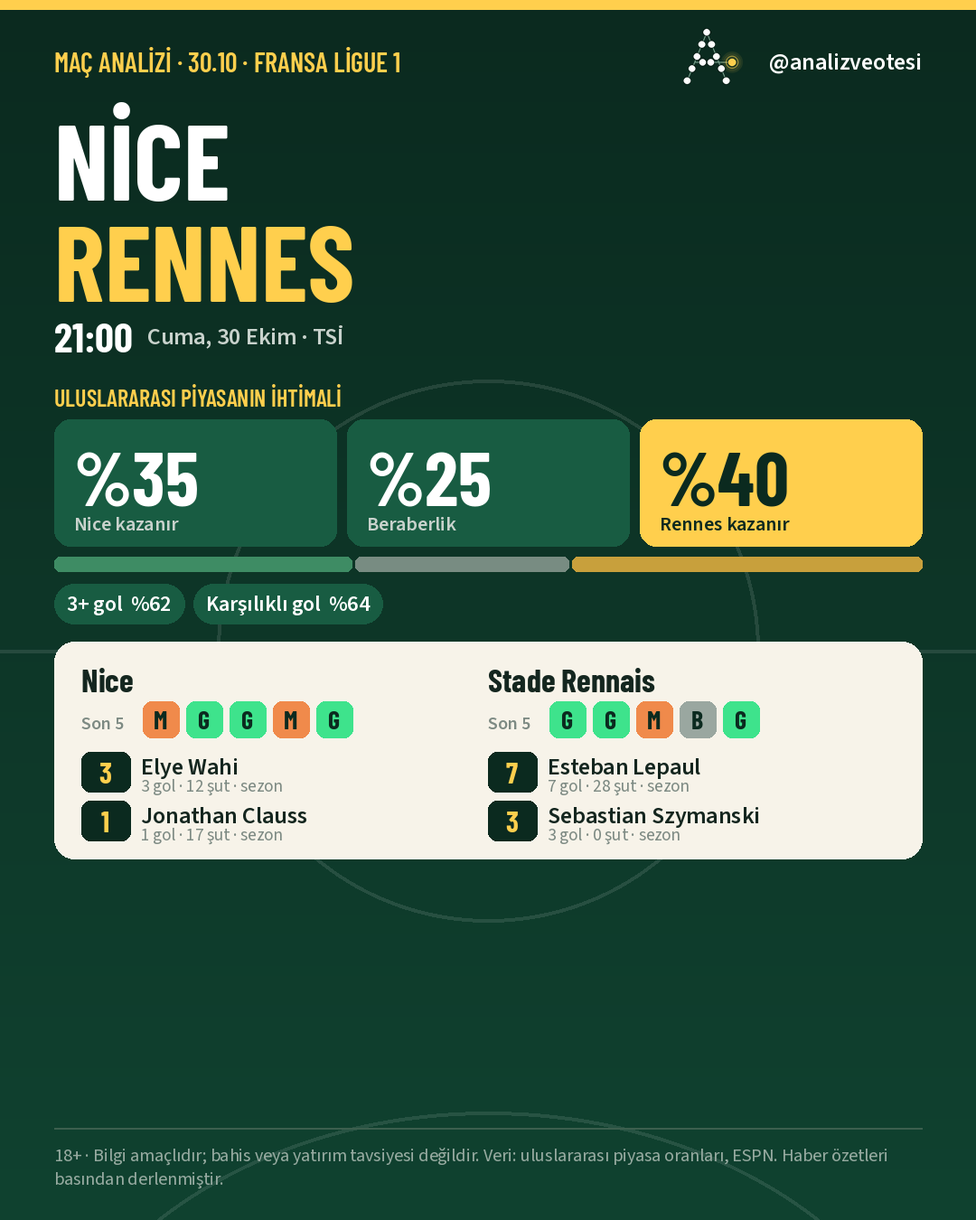
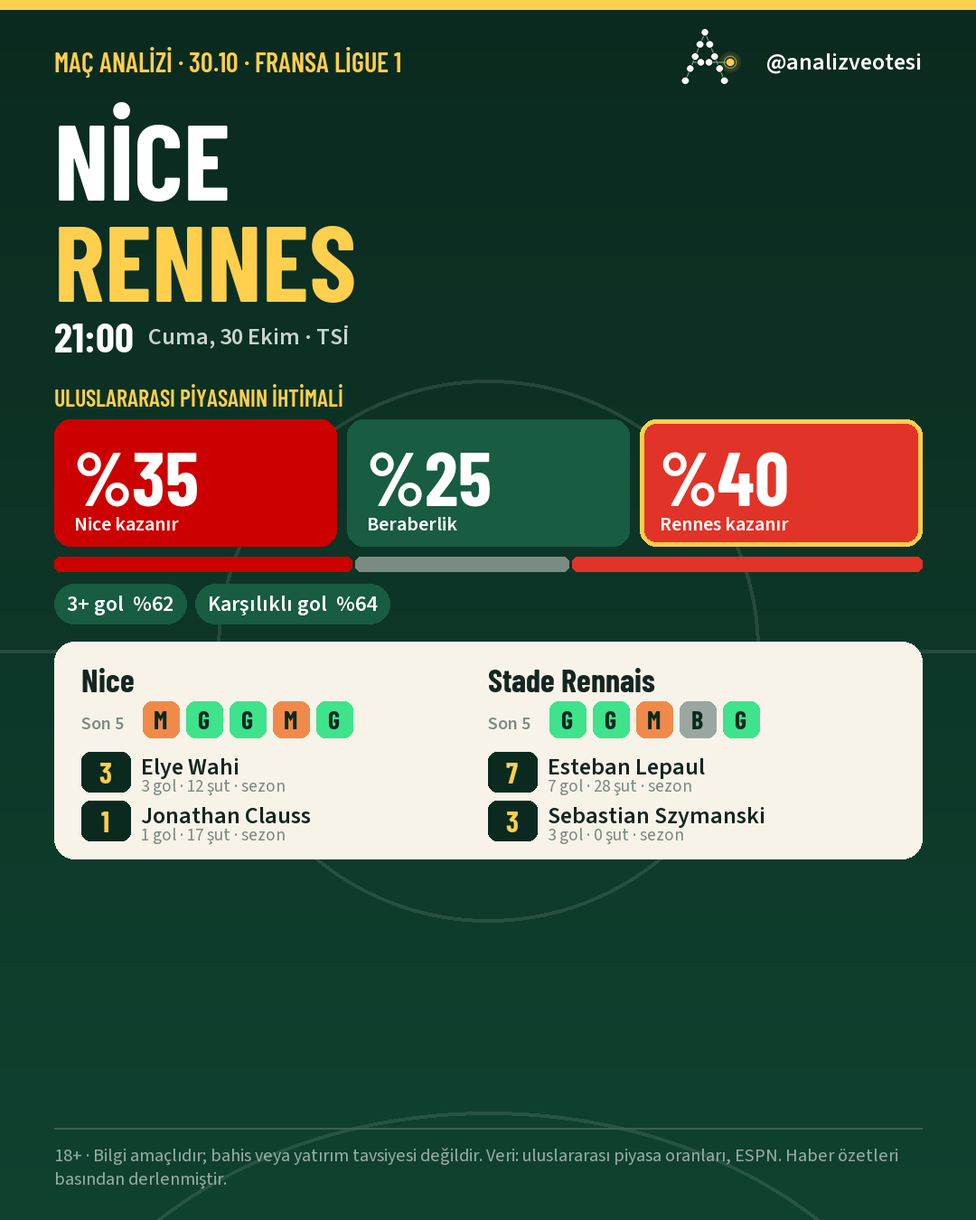
Kartlar: ihtimal kutuları ve oranlı şerit takım renklerinde; açıklamalarda maça özel hashtag'ler (#KONvGS, lig, takımlar)

diff --git a/docs/index.html b/docs/index.html
@@ -215,11 +215,11 @@ footer{margin-top:56px;padding-top:18px;border-top:1px solid var(--line);color:v
 details.match summary{grid-template-columns:1fr auto}details.match summary time{grid-column:1/-1}.coupon{padding:16px 14px}.coupon .meta{text-align:left}.cl .probs{grid-template-columns:repeat(3,1fr)}}
 @media (prefers-reduced-motion:reduce){*{animation:none!important;transition:none!important}.verdict,.coupon,.cl .card{opacity:1;transform:none}.meter .bar{width:var(--w)}}
 </style></head><body><div class="wrap">
-<div class="topbar"><div class="brand">İddia Bot<small>Nesine oranı dünya piyasasından yüksek mi? · gölge test</small></div><div class="clock">30.10 02:13 TSİ</div></div>
+<div class="topbar"><div class="brand">İddia Bot<small>Nesine oranı dünya piyasasından yüksek mi? · gölge test</small></div><div class="clock">30.10 02:16 TSİ</div></div>
 
 <section class="board">
   <h1 class="verdict">Şu an oynanacak<br><em>fırsat yok.</em></h1>
-  <ul class="pills"><li><span class="pulse"></span>Nesine <b>0 dk önce</b> kontrol edildi</li><li>Dünya piyasası <b>3 saat önce</b> · gözcü açılınca tazelenir</li><li class="shadow">Gölge test · para oynanmıyor, her fırsat puanlanıyor</li></ul>
+  <ul class="pills"><li><span class="pulse"></span>Nesine <b>4 dk önce</b> kontrol edildi</li><li>Dünya piyasası <b>3 saat önce</b> · gözcü açılınca tazelenir</li><li class="shadow">Gölge test · para oynanmıyor, her fırsat puanlanıyor</li></ul>
   
 <ul class="facts">
   <li><div class="n">57</div><div class="l">yaklaşan maç takipte</div></li>
@@ -246,7 +246,7 @@ details.match summary{grid-template-columns:1fr auto}details.match summary time{
 <div class="empty"><b>Hiçbir maçta Nesine, dünya piyasasından yüksek oran vermiyor.</b> Bu normaldir; fırsat haber çıkıp dünya piyasası hareket ettiğinde, Nesine geç kaldığında doğar. En yakını <b>Barcelona – Alaves</b>, kg yok · en az bir takım gol atamaz: Nesine 1.70 veriyor, adil oran 1.76; yani hâlâ %3.2 geride.</div>
 <h3>Eşiğe en yakın bahisler</h3>
 <p class="lead">Çubuk ne kadar sağdaysa Nesine o kadar cömert; koyu çizgi +%3 eşiği. Çoğunun solda kalması Nesine'nin normal hâlidir.</p>
-<div class="card"><ul class="list"><li class="row "><div class="m"><div class="t">Barcelona – Alaves</div><div class="d">KG Yok · en az bir takım gol atamaz · Nesine <code>1.70</code> · adil <code>1.76</code></div></div><div class="meter near"><div class="bar" style="--w:65.9%"></div><div class="tick"></div></div><div class="v">-3.2%</div></li><li class="row "><div class="m"><div class="t">Bayern Münih – B. Dortmund</div><div class="d">MS X · beraberlik · Nesine <code>5.54</code> · adil <code>6.01</code></div></div><div class="meter "><div class="bar" style="--w:52.2%"></div><div class="tick"></div></div><div class="v">-7.8%</div></li><li class="row "><div class="m"><div class="t">Konyaspor – Galatasaray</div><div class="d">MS 1 · ev sahibi kazanır · Nesine <code>4.78</code> · adil <code>5.22</code></div></div><div class="meter "><div class="bar" style="--w:50.2%"></div><div class="tick"></div></div><div class="v">-8.4%</div></li><li class="row "><div class="m"><div class="t">Santander – Real Madrid</div><div class="d">KG Yok · en az bir takım gol atamaz · Nesine <code>2.20</code> · adil <code>2.43</code></div></div><div class="meter "><div class="bar" style="--w:47.5%"></div><div class="tick"></div></div><div class="v">-9.3%</div></li><li class="row "><div class="m"><div class="t">Levante – Atl Madrid</div><div class="d">MS 1 · ev sahibi kazanır · Nesine <code>4.70</code> · adil <code>5.21</code></div></div><div class="meter "><div class="bar" style="--w:46.3%"></div><div class="tick"></div></div><div class="v">-9.7%</div></li><li class="row "><div class="m"><div class="t">Lille – RC Lens</div><div class="d">2.5 Üst · 3 veya daha fazla gol · Nesine <code>1.59</code> · adil <code>1.77</code></div></div><div class="meter "><div class="bar" style="--w:45.7%"></div><div class="tick"></div></div><div class="v">-9.9%</div></li><li class="row "><div class="m"><div class="t">Schalke 04 – Leipzig</div><div class="d">MS X · beraberlik · Nesine <code>3.53</code> · adil <code>3.93</code></div></div><div class="meter "><div class="bar" style="--w:45.2%"></div><div class="tick"></div></div><div class="v">-10.1%</div></li><li class="row "><div class="m"><div class="t">Vallecano – Celta Vigo</div><div class="d">KG Yok · en az bir takım gol atamaz · Nesine <code>1.72</code> · adil <code>1.93</code></div></div><div class="meter "><div class="bar" style="--w:42.2%"></div><div class="tick"></div></div><div class="v">-11.1%</div></li><li class="row "><div class="m"><div class="t">Juventus – Napoli</div><div class="d">KG Yok · en az bir takım gol atamaz · Nesine <code>1.84</code> · adil <code>2.07</code></div></div><div class="meter "><div class="bar" style="--w:41.5%"></div><div class="tick"></div></div><div class="v">-11.3%</div></li><li class="row "><div class="m"><div class="t">Trabzonspor – Gaziantep FK</div><div class="d">MS 1 · ev sahibi kazanır · Nesine <code>1.21</code> · adil <code>1.37</code></div></div><div class="meter "><div class="bar" style="--w:40.4%"></div><div class="tick"></div></div><div class="v">-11.7%</div></li><li class="row "><div class="m"><div class="t">Le Havre – PSG</div><div class="d">MS 2 · deplasman kazanır · Nesine <code>1.11</code> · adil <code>1.26</code></div></div><div class="meter "><div class="bar" style="--w:40.2%"></div><div class="tick"></div></div><div class="v">-11.8%</div></li><li class="row "><div class="m"><div class="t">Elche – Valencia</div><div class="d">KG Yok · en az bir takım gol atamaz · Nesine <code>1.84</code> · adil <code>2.09</code></div></div><div class="meter "><div class="bar" style="--w:40.1%"></div><div class="tick"></div></div><div class="v">-11.8%</div></li></ul>
+<div class="card"><ul class="list"><li class="row "><div class="m"><div class="t">Barcelona – Alaves</div><div class="d">KG Yok · en az bir takım gol atamaz · Nesine <code>1.70</code> · adil <code>1.76</code></div></div><div class="meter near"><div class="bar" style="--w:65.9%"></div><div class="tick"></div></div><div class="v">-3.2%</div></li><li class="row "><div class="m"><div class="t">Bayern Münih – B. Dortmund</div><div class="d">MS X · beraberlik · Nesine <code>5.54</code> · adil <code>6.01</code></div></div><div class="meter "><div class="bar" style="--w:52.2%"></div><div class="tick"></div></div><div class="v">-7.8%</div></li><li class="row "><div class="m"><div class="t">Konyaspor – Galatasaray</div><div class="d">MS 1 · ev sahibi kazanır · Nesine <code>4.78</code> · adil <code>5.22</code></div></div><div class="meter "><div class="bar" style="--w:50.2%"></div><div class="tick"></div></div><div class="v">-8.4%</div></li><li class="row "><div class="m"><div class="t">Santander – Real Madrid</div><div class="d">KG Yok · en az bir takım gol atamaz · Nesine <code>2.20</code> · adil <code>2.43</code></div></div><div class="meter "><div class="bar" style="--w:47.5%"></div><div class="tick"></div></div><div class="v">-9.3%</div></li><li class="row "><div class="m"><div class="t">Levante – Atl Madrid</div><div class="d">MS 1 · ev sahibi kazanır · Nesine <code>4.70</code> · adil <code>5.21</code></div></div><div class="meter "><div class="bar" style="--w:46.3%"></div><div class="tick"></div></div><div class="v">-9.7%</div></li><li class="row "><div class="m"><div class="t">Lille – RC Lens</div><div class="d">2.5 Üst · 3 veya daha fazla gol · Nesine <code>1.59</code> · adil <code>1.77</code></div></div><div class="meter "><div class="bar" style="--w:45.7%"></div><div class="tick"></div></div><div class="v">-9.9%</div></li><li class="row "><div class="m"><div class="t">Schalke 04 – Leipzig</div><div class="d">MS X · beraberlik · Nesine <code>3.53</code> · adil <code>3.93</code></div></div><div class="meter "><div class="bar" style="--w:45.2%"></div><div class="tick"></div></div><div class="v">-10.1%</div></li><li class="row "><div class="m"><div class="t">Vallecano – Celta Vigo</div><div class="d">KG Yok · en az bir takım gol atamaz · Nesine <code>1.72</code> · adil <code>1.93</code></div></div><div class="meter "><div class="bar" style="--w:42.2%"></div><div class="tick"></div></div><div class="v">-11.1%</div></li><li class="row "><div class="m"><div class="t">Elche – Valencia</div><div class="d">KG Yok · en az bir takım gol atamaz · Nesine <code>1.85</code> · adil <code>2.09</code></div></div><div class="meter "><div class="bar" style="--w:41.6%"></div><div class="tick"></div></div><div class="v">-11.3%</div></li><li class="row "><div class="m"><div class="t">Juventus – Napoli</div><div class="d">KG Yok · en az bir takım gol atamaz · Nesine <code>1.84</code> · adil <code>2.07</code></div></div><div class="meter "><div class="bar" style="--w:41.5%"></div><div class="tick"></div></div><div class="v">-11.3%</div></li><li class="row "><div class="m"><div class="t">Trabzonspor – Gaziantep FK</div><div class="d">MS 1 · ev sahibi kazanır · Nesine <code>1.21</code> · adil <code>1.37</code></div></div><div class="meter "><div class="bar" style="--w:40.4%"></div><div class="tick"></div></div><div class="v">-11.7%</div></li><li class="row "><div class="m"><div class="t">Le Havre – PSG</div><div class="d">MS 2 · deplasman kazanır · Nesine <code>1.11</code> · adil <code>1.26</code></div></div><div class="meter "><div class="bar" style="--w:40.2%"></div><div class="tick"></div></div><div class="v">-11.8%</div></li></ul>
 <div class="legend"><span><i style="background:#A9B5AE"></i>geride</span><span><i style="background:var(--sodium)"></i>yaklaşıyor (−%5 içinde)</span><span><i style="background:var(--signal)"></i>eşiği geçti</span></div></div>
 </section>
 
@@ -554,8 +554,8 @@ details.match summary{grid-template-columns:1fr auto}details.match summary time{
 
 <section class="panel" id="p-hareket">
 <h2>İddaa oranları hareket ediyor mu?</h2>
-<p class="lead"><b>98 kontrolde 1427 oran değişimi</b> gördük (742 yükseliş, 685 düşüş). Oranlar hareket ediyor; sorumuz, dünya piyasasından ne kadar <b>geç</b> hareket ettiği. Yeşil ▲ oran yükseldi, turuncu ▼ düştü; "maça kalan" değişimin maçtan ne kadar önce olduğunu gösterir.</p>
-<div class="card"><ul class="changes"><li><time>30.10 02:13</time><div>Elche – Valencia <small>· kg var · iki takım da gol atar · maça 66 sa 16 dk kala</small></div><div class="o up">1.54 ▲ 1.55</div></li><li><time>30.10 02:13</time><div>Elche – Valencia <small>· kg yok · en az bir takım gol atamaz · maça 66 sa 16 dk kala</small></div><div class="o down">1.85 ▼ 1.84</div></li><li><time>30.10 02:13</time><div>Elche – Valencia <small>· 2.5 üst · 3 veya daha fazla gol · maça 66 sa 16 dk kala</small></div><div class="o up">1.72 ▲ 1.73</div></li><li><time>30.10 02:12</time><div>Santander – Real Madrid <small>· ms 1 · ev sahibi kazanır · maça 64 sa 2 dk kala</small></div><div class="o down">9.54 ▼ 9.37</div></li><li><time>30.10 02:12</time><div>Santander – Real Madrid <small>· ms x · beraberlik · maça 64 sa 2 dk kala</small></div><div class="o down">6.97 ▼ 6.92</div></li><li><time>30.10 02:12</time><div>Santander – Real Madrid <small>· kg var · iki takım da gol atar · maça 64 sa 2 dk kala</small></div><div class="o down">1.37 ▼ 1.36</div></li><li><time>30.10 02:12</time><div>Santander – Real Madrid <small>· kg yok · en az bir takım gol atamaz · maça 64 sa 2 dk kala</small></div><div class="o up">2.19 ▲ 2.20</div></li><li><time>30.10 02:05</time><div>Bayern Münih – B. Dortmund <small>· ms 2 · deplasman kazanır · maça 42 sa 24 dk kala</small></div><div class="o up">6.46 ▲ 6.52</div></li><li><time>30.10 02:05</time><div>Bayern Münih – B. Dortmund <small>· kg var · iki takım da gol atar · maça 42 sa 24 dk kala</small></div><div class="o up">1.30 ▲ 1.31</div></li><li><time>30.10 02:05</time><div>Bayern Münih – B. Dortmund <small>· kg yok · en az bir takım gol atamaz · maça 42 sa 24 dk kala</small></div><div class="o down">2.38 ▼ 2.37</div></li><li><time>30.10 02:05</time><div>Santander – Real Madrid <small>· ms 1 · ev sahibi kazanır · maça 64 sa 9 dk kala</small></div><div class="o up">9.28 ▲ 9.54</div></li><li><time>30.10 02:05</time><div>Santander – Real Madrid <small>· ms x · beraberlik · maça 64 sa 9 dk kala</small></div><div class="o up">6.89 ▲ 6.97</div></li><li><time>30.10 02:05</time><div>Santander – Real Madrid <small>· kg var · iki takım da gol atar · maça 64 sa 9 dk kala</small></div><div class="o up">1.36 ▲ 1.37</div></li><li><time>30.10 02:05</time><div>Santander – Real Madrid <small>· kg yok · en az bir takım gol atamaz · maça 64 sa 9 dk kala</small></div><div class="o down">2.21 ▼ 2.19</div></li><li><time>30.10 02:04</time><div>Le Havre – PSG <small>· ms 1 · ev sahibi kazanır · maça 18 sa 55 dk kala</small></div><div class="o up">8.25 ▲ 8.65</div></li><li><time>30.10 02:04</time><div>Le Havre – PSG <small>· ms x · beraberlik · maça 18 sa 55 dk kala</small></div><div class="o up">5.82 ▲ 5.95</div></li><li><time>30.10 02:04</time><div>Le Havre – PSG <small>· ms 2 · deplasman kazanır · maça 18 sa 55 dk kala</small></div><div class="o down">1.12 ▼ 1.11</div></li><li><time>30.10 02:04</time><div>Le Havre – PSG <small>· kg var · iki takım da gol atar · maça 18 sa 55 dk kala</small></div><div class="o up">1.51 ▲ 1.54</div></li><li><time>30.10 02:04</time><div>Le Havre – PSG <small>· kg yok · en az bir takım gol atamaz · maça 18 sa 55 dk kala</small></div><div class="o down">1.90 ▼ 1.87</div></li><li><time>30.10 02:04</time><div>Lille – RC Lens <small>· kg var · iki takım da gol atar · maça 21 sa 0 dk kala</small></div><div class="o up">1.46 ▲ 1.47</div></li></ul></div>
+<p class="lead"><b>97 kontrolde 1424 oran değişimi</b> gördük (740 yükseliş, 684 düşüş). Oranlar hareket ediyor; sorumuz, dünya piyasasından ne kadar <b>geç</b> hareket ettiği. Yeşil ▲ oran yükseldi, turuncu ▼ düştü; "maça kalan" değişimin maçtan ne kadar önce olduğunu gösterir.</p>
+<div class="card"><ul class="changes"><li><time>30.10 02:12</time><div>Santander – Real Madrid <small>· ms 1 · ev sahibi kazanır · maça 64 sa 2 dk kala</small></div><div class="o down">9.54 ▼ 9.37</div></li><li><time>30.10 02:12</time><div>Santander – Real Madrid <small>· ms x · beraberlik · maça 64 sa 2 dk kala</small></div><div class="o down">6.97 ▼ 6.92</div></li><li><time>30.10 02:12</time><div>Santander – Real Madrid <small>· kg var · iki takım da gol atar · maça 64 sa 2 dk kala</small></div><div class="o down">1.37 ▼ 1.36</div></li><li><time>30.10 02:12</time><div>Santander – Real Madrid <small>· kg yok · en az bir takım gol atamaz · maça 64 sa 2 dk kala</small></div><div class="o up">2.19 ▲ 2.20</div></li><li><time>30.10 02:05</time><div>Bayern Münih – B. Dortmund <small>· ms 2 · deplasman kazanır · maça 42 sa 24 dk kala</small></div><div class="o up">6.46 ▲ 6.52</div></li><li><time>30.10 02:05</time><div>Bayern Münih – B. Dortmund <small>· kg var · iki takım da gol atar · maça 42 sa 24 dk kala</small></div><div class="o up">1.30 ▲ 1.31</div></li><li><time>30.10 02:05</time><div>Bayern Münih – B. Dortmund <small>· kg yok · en az bir takım gol atamaz · maça 42 sa 24 dk kala</small></div><div class="o down">2.38 ▼ 2.37</div></li><li><time>30.10 02:05</time><div>Santander – Real Madrid <small>· ms 1 · ev sahibi kazanır · maça 64 sa 9 dk kala</small></div><div class="o up">9.28 ▲ 9.54</div></li><li><time>30.10 02:05</time><div>Santander – Real Madrid <small>· ms x · beraberlik · maça 64 sa 9 dk kala</small></div><div class="o up">6.89 ▲ 6.97</div></li><li><time>30.10 02:05</time><div>Santander – Real Madrid <small>· kg var · iki takım da gol atar · maça 64 sa 9 dk kala</small></div><div class="o up">1.36 ▲ 1.37</div></li><li><time>30.10 02:05</time><div>Santander – Real Madrid <small>· kg yok · en az bir takım gol atamaz · maça 64 sa 9 dk kala</small></div><div class="o down">2.21 ▼ 2.19</div></li><li><time>30.10 02:04</time><div>Le Havre – PSG <small>· ms 1 · ev sahibi kazanır · maça 18 sa 55 dk kala</small></div><div class="o up">8.25 ▲ 8.65</div></li><li><time>30.10 02:04</time><div>Le Havre – PSG <small>· ms x · beraberlik · maça 18 sa 55 dk kala</small></div><div class="o up">5.82 ▲ 5.95</div></li><li><time>30.10 02:04</time><div>Le Havre – PSG <small>· ms 2 · deplasman kazanır · maça 18 sa 55 dk kala</small></div><div class="o down">1.12 ▼ 1.11</div></li><li><time>30.10 02:04</time><div>Le Havre – PSG <small>· kg var · iki takım da gol atar · maça 18 sa 55 dk kala</small></div><div class="o up">1.51 ▲ 1.54</div></li><li><time>30.10 02:04</time><div>Le Havre – PSG <small>· kg yok · en az bir takım gol atamaz · maça 18 sa 55 dk kala</small></div><div class="o down">1.90 ▼ 1.87</div></li><li><time>30.10 02:04</time><div>Lille – RC Lens <small>· kg var · iki takım da gol atar · maça 21 sa 0 dk kala</small></div><div class="o up">1.46 ▲ 1.47</div></li><li><time>30.10 02:04</time><div>Lille – RC Lens <small>· kg yok · en az bir takım gol atamaz · maça 21 sa 0 dk kala</small></div><div class="o down">2.00 ▼ 1.99</div></li><li><time>30.10 02:04</time><div>Lille – RC Lens <small>· 2.5 üst · 3 veya daha fazla gol · maça 21 sa 0 dk kala</small></div><div class="o up">1.58 ▲ 1.59</div></li><li><time>30.10 01:44</time><div>Le Havre – PSG <small>· ms 1 · ev sahibi kazanır · maça 19 sa 15 dk kala</small></div><div class="o down">8.49 ▼ 8.25</div></li></ul></div>
 </section>
 
 <section class="panel" id="p-paylasim">
@@ -575,7 +575,7 @@ En büyük belirsizlik: Osimhen&#x27;in maç günü ayrı seyahat edip gerçekte
 
 18+ · Bilgi amaçlıdır; bahis veya yatırım tavsiyesi değildir.
 
-#futbol #maçanalizi #sakatlık #kadro</textarea><button type="button" class="copy">Açıklamayı kopyala</button></div></div><div class="post"><div class="post-h"><b>Paket #2 · Le Havre – PSG</b><span class="when">Cum 30.10 21:00 · Fransa Ligue 1</span></div>
+#Konyaspor #Galatasaray #KONvGS #SüperLig #TrendyolSüperLig #futbol #maçanalizi #sakatlık #kadro</textarea><button type="button" class="copy">Açıklamayı kopyala</button></div></div><div class="post"><div class="post-h"><b>Paket #2 · Le Havre – PSG</b><span class="when">Cum 30.10 21:00 · Fransa Ligue 1</span></div>
 <div class="tiles small"><a class="tile" href="social/2026-10-30/match_3252325.png" download><img src="social/2026-10-30/match_3252325.png" alt="" loading="lazy"><span>1 · maç kartı</span></a></div>
 <div class="cap"><textarea readonly rows="7">Le Havre – PSG | Cuma, 30 Ekim, 21:00 | Fransa Ligue 1
 
@@ -583,7 +583,7 @@ Dünya bahis borsası: Le Havre %8 · beraberlik %12 · PSG %80
 
 18+ · Bilgi amaçlıdır; bahis veya yatırım tavsiyesi değildir.
 
-#futbol #maçanalizi #sakatlık #kadro</textarea><button type="button" class="copy">Açıklamayı kopyala</button></div></div><div class="post"><div class="post-h"><b>Paket #3 · Nice – Rennes</b><span class="when">Cum 30.10 21:00 · Fransa Ligue 1</span></div>
+#LeHavre #PSG #HACvPSG #Ligue1 #futbol #maçanalizi #sakatlık #kadro</textarea><button type="button" class="copy">Açıklamayı kopyala</button></div></div><div class="post"><div class="post-h"><b>Paket #3 · Nice – Rennes</b><span class="when">Cum 30.10 21:00 · Fransa Ligue 1</span></div>
 <div class="tiles small"><a class="tile" href="social/2026-10-30/match_3254474.png" download><img src="social/2026-10-30/match_3254474.png" alt="" loading="lazy"><span>1 · maç kartı</span></a></div>
 <div class="cap"><textarea readonly rows="7">Nice – Rennes | Cuma, 30 Ekim, 21:00 | Fransa Ligue 1
 
@@ -591,7 +591,7 @@ Dünya bahis borsası: Nice %35 · beraberlik %25 · Rennes %40
 
 18+ · Bilgi amaçlıdır; bahis veya yatırım tavsiyesi değildir.
 
-#futbol #maçanalizi #sakatlık #kadro</textarea><button type="button" class="copy">Açıklamayı kopyala</button></div></div><div class="post"><div class="post-h"><b>Paket #4 · Elversberg – Mainz</b><span class="when">Cum 30.10 22:30 · Almanya Bundesliga</span></div>
+#Nice #Rennes #OGCvSRFC #Ligue1 #futbol #maçanalizi #sakatlık #kadro</textarea><button type="button" class="copy">Açıklamayı kopyala</button></div></div><div class="post"><div class="post-h"><b>Paket #4 · Elversberg – Mainz</b><span class="when">Cum 30.10 22:30 · Almanya Bundesliga</span></div>
 <div class="tiles small"><a class="tile" href="social/2026-10-30/match_3253900.png" download><img src="social/2026-10-30/match_3253900.png" alt="" loading="lazy"><span>1 · maç kartı</span></a></div>
 <div class="cap"><textarea readonly rows="7">Elversberg – Mainz | Cuma, 30 Ekim, 22:30 | Almanya Bundesliga
 
@@ -599,7 +599,7 @@ Dünya bahis borsası: Elversberg %30 · beraberlik %24 · Mainz %45
 
 18+ · Bilgi amaçlıdır; bahis veya yatırım tavsiyesi değildir.
 
-#futbol #maçanalizi #sakatlık #kadro</textarea><button type="button" class="copy">Açıklamayı kopyala</button></div></div><div class="post"><div class="post-h"><b>Paket #5 · Villarreal – Espanyol</b><span class="when">Cum 30.10 23:00 · İspanya La Liga</span></div>
+#Elversberg #Mainz #ELVvM05 #Bundesliga #futbol #maçanalizi #sakatlık #kadro</textarea><button type="button" class="copy">Açıklamayı kopyala</button></div></div><div class="post"><div class="post-h"><b>Paket #5 · Villarreal – Espanyol</b><span class="when">Cum 30.10 23:00 · İspanya La Liga</span></div>
 <div class="tiles small"><a class="tile" href="social/2026-10-30/match_3258486.png" download><img src="social/2026-10-30/match_3258486.png" alt="" loading="lazy"><span>1 · maç kartı</span></a></div>
 <div class="cap"><textarea readonly rows="7">Villarreal – Espanyol | Cuma, 30 Ekim, 23:00 | İspanya La Liga
 
@@ -607,7 +607,7 @@ Dünya bahis borsası: Villarreal %69 · beraberlik %18 · Espanyol %13
 
 18+ · Bilgi amaçlıdır; bahis veya yatırım tavsiyesi değildir.
 
-#futbol #maçanalizi #sakatlık #kadro</textarea><button type="button" class="copy">Açıklamayı kopyala</button></div></div><div class="post"><div class="post-h"><b>Paket #6 · Lille – RC Lens</b><span class="when">Cum 30.10 23:05 · Fransa Ligue 1</span></div>
+#Villarreal #Espanyol #VILvESP #LaLiga #futbol #maçanalizi #sakatlık #kadro</textarea><button type="button" class="copy">Açıklamayı kopyala</button></div></div><div class="post"><div class="post-h"><b>Paket #6 · Lille – RC Lens</b><span class="when">Cum 30.10 23:05 · Fransa Ligue 1</span></div>
 <div class="tiles small"><a class="tile" href="social/2026-10-30/match_3253790.png" download><img src="social/2026-10-30/match_3253790.png" alt="" loading="lazy"><span>1 · maç kartı</span></a></div>
 <div class="cap"><textarea readonly rows="7">Lille – RC Lens | Cuma, 30 Ekim, 23:05 | Fransa Ligue 1
 
@@ -615,7 +615,7 @@ Dünya bahis borsası: Lille %37 · beraberlik %27 · RC Lens %36
 
 18+ · Bilgi amaçlıdır; bahis veya yatırım tavsiyesi değildir.
 
-#futbol #maçanalizi #sakatlık #kadro</textarea><button type="button" class="copy">Açıklamayı kopyala</button></div></div><div class="post"><div class="post-h"><b>Paket #7 · Günün eksikleri</b><span class="when">2026-10-30</span></div>
+#Lille #RCLens #LILvRCL #Ligue1 #futbol #maçanalizi #sakatlık #kadro</textarea><button type="button" class="copy">Açıklamayı kopyala</button></div></div><div class="post"><div class="post-h"><b>Paket #7 · Günün eksikleri</b><span class="when">2026-10-30</span></div>
 <div class="tiles small"><a class="tile" href="social/2026-10-30/injuries.png" download><img src="social/2026-10-30/injuries.png" alt="" loading="lazy"><span>sakatlık bülteni</span></a></div>
 <div class="cap"><textarea readonly rows="5">Günün eksikleri | 30.10
 

diff --git a/social.py b/social.py
@@ -221,22 +221,25 @@ def match_card(m, pm, ai, er, out_path):
     y += 80
     if pm and "MS" in pm:
         text(d, (60, y), "ULUSLARARASI PİYASANIN İHTİMALİ", font("displaysemi", 26), YELLOW); y += 40
-        cols = [(f"{m['home']} kazanır", pm["MS"]["1"]), ("Beraberlik", pm["MS"]["X"]), (f"{m['away']} kazanır", pm["MS"]["2"])]
-        best = max(p for _, p in cols)
+        hc1, hc2, _ = team_style(m["home"], er); ac1, ac2, _ = team_style(m["away"], er)
+        def lum(c): return 0.299 * c[0] + 0.587 * c[1] + 0.114 * c[2]
+        cols = [(f"{m['home']} kazanır", pm["MS"]["1"], hc1), ("Beraberlik", pm["MS"]["X"], GREEN3), (f"{m['away']} kazanır", pm["MS"]["2"], ac1)]
+        best = max(p for _, p, _ in cols)
         bw = (W - 120 - 24) / 3
-        for i, (lab, p) in enumerate(cols):
+        for i, (lab, p, c1) in enumerate(cols):
             x = 60 + i * (bw + 12); top = p == best
-            d.rounded_rectangle((x, y, x + bw, y + 140), radius=18, fill=YELLOW if top else GREEN3)
-            d.text((x + 22, y + 12), f"%{p*100:.0f}", font=font("display", 84), fill=GREEN if top else WHITE)
-            d.text((x + 22, y + 100), fit(lab, font("semi", 22), bw - 44), font=font("semi", 22), fill=GREEN if top else PALE)
+            fg = (20, 20, 20) if lum(c1) > 150 else WHITE
+            d.rounded_rectangle((x, y, x + bw, y + 140), radius=18, fill=c1, outline=YELLOW if top else None, width=5 if top else 0)
+            d.text((x + 22, y + 12), f"%{p*100:.0f}", font=font("display", 84), fill=fg)
+            d.text((x + 22, y + 100), fit(lab, font("semi", 22), bw - 44), font=font("semi", 22), fill=fg)
         y += 152
-        # oranlı şerit: ev | beraberlik | deplasman
+        # oranlı şerit: ev | beraberlik | deplasman (takım renkleri)
         x0, x1 = 60, W - 60; tot = x1 - x0
-        segs = [(pm["MS"]["1"], (62, 140, 100)), (pm["MS"]["X"], (120, 140, 130)), (pm["MS"]["2"], (200, 160, 60))]
+        segs = [(pm["MS"]["1"], hc1), (pm["MS"]["X"], (120, 140, 130)), (pm["MS"]["2"], ac1)]
         xx = x0
         for i, (p, c) in enumerate(segs):
             w = tot * p
-            d.rounded_rectangle((xx, y, xx + w - (4 if i < 2 else 0), y + 16), radius=6, fill=c)
+            d.rounded_rectangle((xx, y, xx + w - (4 if i < 2 else 0), y + 16), radius=6, fill=c, outline=(255, 255, 255) if lum(c) < 40 else None, width=1)
             xx += w
         y += 30
         if "AU25" in pm and "KG" in pm:

diff --git a/instagram.py b/instagram.py
@@ -24,6 +24,27 @@ TOKEN = os.environ.get("IG_TOKEN", "")
 USER_ID = os.environ.get("IG_USER_ID", "")
 MAX_PER_DAY = int(os.environ.get("IG_MAX_PER_DAY", "2"))
 HASHTAGS = "#futbol #maçanalizi #sakatlık #kadro"
+LEAGUE_TAGS = {"soccer_turkey_super_league": "#SüperLig #TrendyolSüperLig", "soccer_epl": "#PremierLeague #PremierLig", "soccer_spain_la_liga": "#LaLiga",
+               "soccer_italy_serie_a": "#SerieA", "soccer_germany_bundesliga": "#Bundesliga", "soccer_france_ligue_one": "#Ligue1",
+               "soccer_uefa_champs_league": "#ŞampiyonlarLigi #UCL", "soccer_uefa_europa_league": "#AvrupaLigi #UEL",
+               "soccer_uefa_europa_conference_league": "#KonferansLigi #UECL", "soccer_uefa_nations_league": "#UluslarLigi"}
+
+
+def tag_name(name):
+    """Takım adından hashtag: boşluk/nokta/çizgi atılır (#Konyaspor, #ManUtd)."""
+    import re
+    t = re.sub(r"[^0-9A-Za-zÇĞİÖŞÜçğıöşü]", "", name.replace(".", ""))
+    return "#" + t if t else ""
+
+
+def hashtags_for(m):
+    """Maça özel etiketler: takımlar, kısaltma eşleşmesi (#KONvGS), lig, genel."""
+    import social
+    _, _, ha = social.team_style(m["home"]); _, _, aa = social.team_style(m["away"])
+    tr = str.maketrans("İÇÖŞÜĞ", "ICOSUG")
+    pair = f"#{ha}v{aa}".translate(tr)
+    tags = [tag_name(m["home"]), tag_name(m["away"]), pair, LEAGUE_TAGS.get(m.get("sport_key"), ""), HASHTAGS]
+    return " ".join(t for t in tags if t)
 NOTE = "18+ · Bilgi amaçlıdır; bahis veya yatırım tavsiyesi değildir."
 
 
@@ -86,7 +107,7 @@ def caption_for(m, ai, pm):
         parts.append(f"Dünya bahis borsası: {m['home']} %{pm['MS']['1']*100:.0f} · beraberlik %{pm['MS']['X']*100:.0f} · {m['away']} %{pm['MS']['2']*100:.0f}")
     if bl.get("risk"):
         parts.append("En büyük belirsizlik: " + bl["risk"])
-    parts.append(NOTE); parts.append(HASHTAGS)
+    parts.append(NOTE); parts.append(hashtags_for(m))
     return "\n\n".join(parts)[:2100]
 
 
